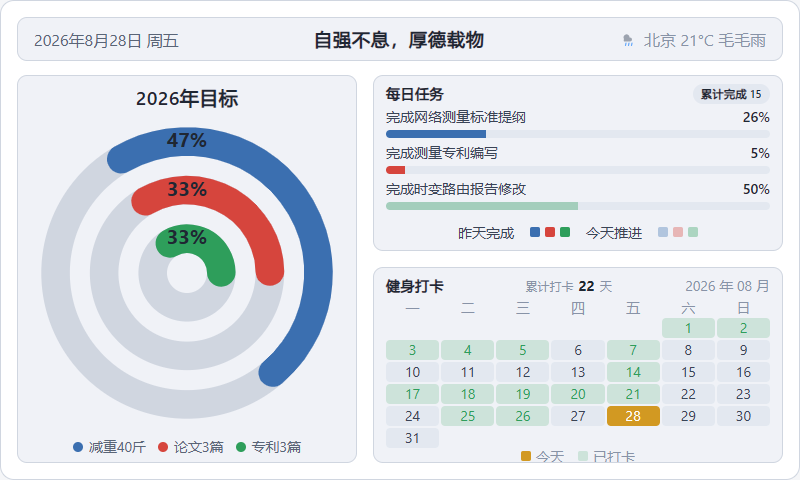
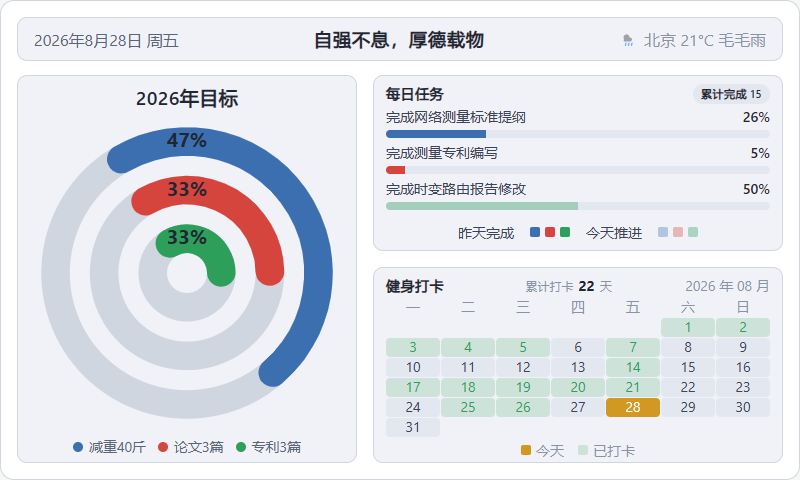
feat: 鐪嬫澘鏍峰紡鍙傛暟璋冩暣锛堟瘡鏃ヤ换鍔℃仮澶?鏃ュ巻瀹芥澗锛夊苟鍚屾鐢熸垚鑴氭湰 + 鏂板鏂囨。璁板綍

diff --git a/output/dashboard.html b/output/dashboard.html
@@ -133,7 +133,7 @@
 
   /* calendar */
   .calendar-panel { flex: 1; }
-  .cal-header { display: flex; justify-content: space-between; align-items: baseline; margin-bottom: 3px; }
+  .cal-header { display: flex; justify-content: space-between; align-items: baseline; margin-bottom: 2px; }
   .cal-date { font-size: 14px; color: #8893a7; }
   .cal-stats {
     display: inline-flex;
@@ -153,17 +153,17 @@
   .cal-grid {
     display: grid;
     grid-template-columns: repeat(7, 1fr);
-    gap: 2px;
+    gap: 1px;
   }
   /*日历的字体*/
-  .cal-grid.wk { margin-bottom: 1px; }
+  .cal-grid.wk { margin-bottom: 2px; }
   .wk span {
     text-align: center;
     font-size: 14px;
     color: #8893a7;
   }
   .cell {
-    height: 20px;
+    height: 19px;
     display: flex;
     align-items: center;
     justify-content: center;
@@ -177,7 +177,7 @@
     display: flex;
     justify-content: center;
     gap: 14px;
-    margin-top: -1px;
+    margin-top: 4px;
     font-size: 14px;
   }
   .cal-legend span { display: flex; align-items: center; gap: 5px; }

diff --git a/src/generate_dashboard.py b/src/generate_dashboard.py
@@ -693,7 +693,7 @@ def build_html(weight_info, goals, fitness_info, tasks_info, fitness_rows,
 
   /* calendar */
   .calendar-panel {{ flex: 1; }}
-  .cal-header {{ display: flex; justify-content: space-between; align-items: baseline; margin-bottom: 3px; }}
+  .cal-header {{ display: flex; justify-content: space-between; align-items: baseline; margin-bottom: 2px; }}
   .cal-date {{ font-size: 14px; color: {theme['cal_head_color']}; }}
   .cal-stats {{
     display: inline-flex;
@@ -713,17 +713,17 @@ def build_html(weight_info, goals, fitness_info, tasks_info, fitness_rows,
   .cal-grid {{
     display: grid;
     grid-template-columns: repeat(7, 1fr);
-    gap: 2px;
+    gap: 1px;
   }}
   /*日历的字体*/
-  .cal-grid.wk {{ margin-bottom: 1px; }}
+  .cal-grid.wk {{ margin-bottom: 2px; }}
   .wk span {{
     text-align: center;
     font-size: 14px;
     color: {theme['cal_head_color']};
   }}
   .cell {{
-    height: 20px;
+    height: 19px;
     display: flex;
     align-items: center;
     justify-content: center;
@@ -737,7 +737,7 @@ def build_html(weight_info, goals, fitness_info, tasks_info, fitness_rows,
     display: flex;
     justify-content: center;
     gap: 14px;
-    margin-top: -1px;
+    margin-top: 4px;
     font-size: 14px;
   }}
   .cal-legend span {{ display: flex; align-items: center; gap: 5px; }}

diff --git a/docs/cjk-font-issue-2026-08-28.md b/docs/cjk-font-issue-2026-08-28.md
@@ -1,0 +1,146 @@
+# 中文乱码问题记录（2026-08-28）
+
+## 一、问题现象
+
+`output/dashboard.html` 加载到 SenseCraft 的 reTerminal E1002 终端后，页面上的中文全部显示为**「方框 + 问号」**（即 Unicode 缺字字符，tofu / missing glyph）。
+
+- 本地浏览器（Windows）打开同一份 `dashboard.html` 中文显示**正常**。
+- 设备端（reTerminal / SenseCraft 内置 WebView 渲染）中文显示**异常**，数字英文正常。
+
+> 核心痛点：E1002 SenseCraft 内置 WebView **没有系统中文字体**。编码 meta 标签只能解决字符解码，**不能解决方块豆腐块**，必须让网页自带字体（WebFont）。
+
+## 二、排查过程
+
+1. **对比历史版本字体配置**
+
+   对比 8/26、8/27、8/28 三个版本的 `dashboard.html`：
+
+   ```bash
+   git show bc5c9c8:output/dashboard.html | Select-String "font-family"
+   git show 5bbfb8d:output/dashboard.html | Select-String "font-family"
+   git show 4c858c5:output/dashboard.html | Select-String "font-family"
+   ```
+
+   三个版本的 `font-family` 字体栈**完全一致**，都声明了 `"Microsoft YaHei"`、`"PingFang SC"` 等中文字体。
+
+2. **结论：代码/字体栈没有变化**
+
+   字体栈从 8/26 到 8/28 从未改变，本地浏览器一直正常。因此问题**不是代码变更导致**，而是**设备端渲染环境缺少中文字体**。
+
+## 三、根本原因
+
+`dashboard.html` 中声明的字体（`Microsoft YaHei`、`PingFang SC` 等）都是**桌面系统字体**：
+
+- Windows 自带微软雅黑 → 本地浏览器正常；
+- reTerminal 设备系统（Linux 类）**未安装任何中文字体** → 渲染引擎找不到可用的中文字体，回退失败，显示为「方框 + 问号」。
+
+> 注：此前几天显示正常，可能与设备端加载的内容/环境变化有关（例如之前加载的是 Windows 本地截图 PNG，今天改为设备端直接渲染 HTML），排查后确认核心问题始终是**设备缺中文字体**。
+
+## 四、解决方案
+
+### 方案一（已采用，推荐）：HTML 内嵌中文字体子集（base64）
+
+新增工具 `src/embed_cjk_font.py`，把中文字体**以子集 woff2 + base64 形式直接嵌入 HTML**，页面完全自包含，不依赖设备系统字体。
+
+原理：
+
+1. 扫描 HTML 中实际出现的所有中文字符（含 CJK 标点）；
+2. 用 fonttools 对本机中文字体（微软雅黑）做**子集化**，只保留页面用到的字符，输出 woff2（体积小，约几十 KB）；
+3. 将 woff2 base64 编码后以 `@font-face` 嵌入 `<style>`，并让自定义字体 `EInkCJK` 排到 `font-family` 最前面。
+
+效果：
+
+| 文件 | 内嵌前 | 内嵌后 |
+|---|---|---|
+| `output/dashboard.html` | 12 KB | 约 88 KB（含 76 KB 字体子集） |
+
+**已集成到生成脚本**：`src/generate_dashboard.py` 每次生成后自动嵌入（可用 `--no-embed` 关闭）。
+
+手动使用方式：
+
+```bash
+python src/embed_cjk_font.py output/dashboard.html              # 原地嵌入
+python src/embed_cjk_font.py --out out.html in.html             # 输出到新文件
+python src/embed_cjk_font.py --font <字体文件> in.html           # 指定字体
+```
+
+### 方案二（备用）：在设备上安装中文字体
+
+修改 `src/setup_reterminal.sh`，在 reTerminal 设备上安装 Noto CJK 字体：
+
+```bash
+sudo apt update
+sudo apt install -y fonts-noto-cjk
+```
+
+安装后设备系统自带中文字体，任何页面（包括不内嵌字体的 `tasks_view.html`）都能正常显示。
+
+## 五、硬性约束核对
+
+加载到 E1002 SenseCraft WebView 的 HTML 必须满足：
+
+| 要求 | dashboard.html 现状 |
+|---|---|
+| `<!DOCTYPE html>` | 第 1 行 ✅ |
+| `<html lang="zh-CN">` | ✅ |
+| `<meta charset="UTF-8">` 写在 `<head>` **第一行** | 第 5 行（head 首行内容）✅ |
+| 文件保存编码 **UTF-8 无 BOM** | 已验证无 BOM（HEX `3C 21 44`）✅ |
+| 必须用**子集化 woff2**，不能用完整字体 | ✅ 内嵌 76KB 子集（完整 Noto-SC woff2 约 700KB，E1002 加载卡顿） |
+
+## 六、方案选型对比：独立 woff2 文件 vs base64 内嵌
+
+旧方案（glyphhanger 生成**独立 woff2 文件** `./subset.woff2`，与 HTML 分开上传）与**base64 内嵌**的对比：
+
+| 维度 | 独立 woff2 文件 | base64 内嵌（本项目） |
+|---|---|---|
+| 网络差时字体加载 | 下载慢/失败 → 短暂方块 | 字体在 HTML 内，一次请求拿到，**无此风险** |
+| Gitee/GitHub raw 风控 | 可能拦截 woff2 请求 → 方块 | 没有独立字体请求，**不会被拦截** |
+| 部署文件数 | html + woff2 两个文件，缺一不可 | **单文件自包含** |
+| 新增汉字 | 必须手动重跑 glyphhanger | 生成脚本每次**自动重新提取字符集** |
+| HTML 体积 | 小（字体另存） | 增大 33%（base64 膨胀，约 76KB，可接受） |
+
+结论：在 E1002 场景下 base64 内嵌**更稳定**，代价是 HTML 体积增加几十 KB，换取完全消除字体加载失败/被拦截的风险。
+
+### 两种子集化工具对比
+
+- **glyphhanger（旧方案）**：
+
+  ```bash
+  npm install -g glyphhanger
+  glyphhanger ./index.html --subset=./NotoSansSC-Regular.ttf --formats=woff2
+  ```
+
+- **本项目 embed_cjk_font.py（fonttools 实现）**：
+
+  ```bash
+  python src/embed_cjk_font.py output/dashboard.html
+  ```
+
+  效果相同（只保留页面出现过的汉字），且已集成到每日生成流程，无需手动操作。
+
+## 七、部署注意（针对 E1002 SenseCraft）
+
+1. **墨水屏刷新特性**：字体下载/渲染完成后，需要**触发一次屏幕刷新**，否则屏上可能仍显示旧内容/方块。首次加载新页面后务必刷新一次。
+2. 避免使用 raw 直链加载资源；本方案为单文件内嵌，天然规避该问题。
+3. 网络差时 base64 内嵌的 HTML 一次性加载，比「HTML + 字体双请求」更快出字。
+
+## 八、无法绕开的缺点与兜底
+
+内嵌字体方案仍有以下限制，需提前知晓：
+
+1. 页面**新增汉字时**，必须重新生成子集字体（本项目已由生成脚本自动完成）；
+2. 内嵌字体只包含**页面当前用到的字符**，未用到的字不在字体里；
+3. 兜底备选：若内嵌方案仍不稳定，可改用 **SVG 内嵌**——把文字转为矢量路径，不依赖任何字体，体积同样很小；或退回 PNG 截图方案（体积大但中文 100% 稳定）。
+
+## 九、相关文件
+
+| 文件 | 说明 |
+|---|---|
+| `src/embed_cjk_font.py` | 新增，字体子集嵌入工具 |
+| `src/generate_dashboard.py` | 集成自动嵌入逻辑（`--no-embed` 可关闭） |
+| `src/generate_tasks_view.py` | 不嵌入字体（按需，仅 `dashboard.html` 内嵌） |
+| `src/setup_reterminal.sh` | 设备安装 Noto CJK 字体的备用方案 |
+| `output/dashboard.html` | 已内嵌字体，设备端中文正常显示 |
+| `output/dashboard.png` | 已按最新页面重新截图 |
+
+对应提交：`5cf393c`

diff --git a/docs/memory.md b/docs/memory.md
@@ -1,0 +1,17 @@
+# 项目约定记忆
+
+## 健身打卡日历图例位置
+
+- 页面元素：`output/dashboard.html` 中"今天、已打卡"图例（`.cal-legend`）
+- 当前参数：`margin-top: 4px`
+- **约定**：用户说"上移'今天、已打卡'图例"时，直接**缩小** `margin-top: 4px` 这个值；用户说"下移"时，**增大**该值。
+
+## 健身打卡日历头部间距
+
+- `.cal-header` 的 `margin-bottom`：当前 `2px`
+- `.cal-grid.wk` 的 `margin-bottom`：当前 `2px`
+- 这两处控制"健身打卡"标题行与星期行（一 二 三…）之间的间距；用户说"调整标题和星期行间距"时改这两个值。
+
+## 通用注意
+
+- 修改以上样式后，需同步到生成脚本 `src/generate_dashboard.py` 中对应的样式，避免重新生成页面时被覆盖。
